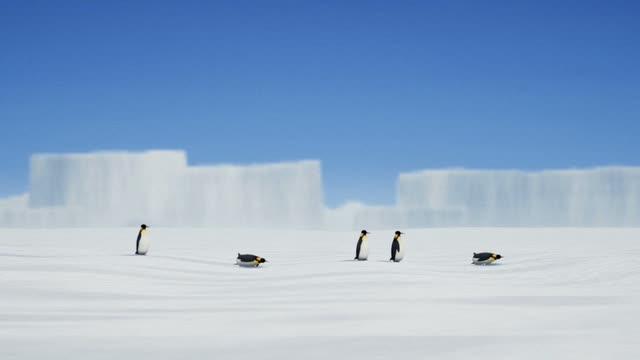
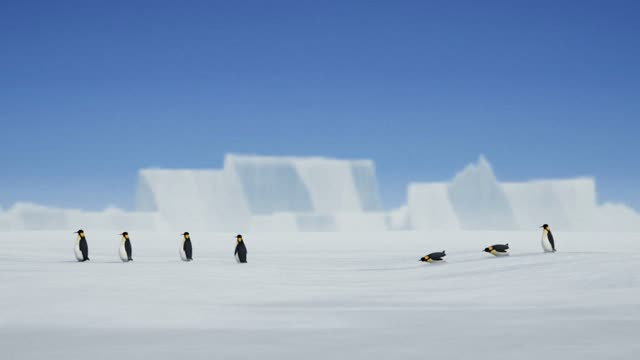
penguins のヒナの動きと顔つきを調整する

diff --git a/penguins.html b/penguins.html
@@ -207,8 +207,6 @@ const ADULT_SHAPE = {
   bellyRadius: 0.215,             // 腹ばいのときの回転の中心の高さ（腹が雪に少し沈む高さ。浮いて見えないように）
   neck: [0.02, 0.985, 0],
   shoulder: [-0.012, 0.75, 0.118],
-  wingLength: 1,                  // 翼の長さの倍率
-  wingOpen: 0,                    // 翼を体から離す角度の追加（ラジアン）
 };
 // ヒナは大人より丸っこい。この形で作ってから、全体を CHICK_SIZE 倍で描く
 const CHICK_SHAPE = {
@@ -232,17 +230,13 @@ const CHICK_SHAPE = {
   tailX: -0.24,
   head: [0.108, 0.122, 0.108],
   bill: [
-    [0, 0, 0.026, 0.02],
-    [0.05, 0.003, 0.016, 0.012],
-    [0.1, 0.012, 0.002, 0.002],
+    [0, 0, 0.036, 0.028],
+    [0.0525, 0.003, 0.022, 0.017],
+    [0.105, 0.013, 0.002, 0.002],
   ],
   billSmooth: 8,
-  billAt: [0.105, -0.012],
-  bellyRadius: 0.285,
+  billAt: [0.105, 0.012],
   neck: [0.012, 0.93, 0],
-  shoulder: [-0.012, 0.74, 0.16],
-  wingLength: 0.68,
-  wingOpen: 0.14,                 // 太い胴に翼が埋まらないように離す
 };
 
 // 景色。色は sRGB の文字列。光は [R, G, B]（線形の明るさ。1 を超えてよく、最後にトーンカーブで収める）
@@ -721,10 +715,10 @@ function paintChickHead(u, v) {
   const a = frontAngle(u);
   const noise = 0.85 + 0.25 * valueNoise(u * 40, v * 40, 40);
   // 黒い頭に白い顔
-  let col = mix3(BLACK, CHICK_FACE, blob((a - 62) / 62, (v - 0.42) / 0.26, 0.75));
+  let col = mix3(BLACK, CHICK_FACE, blob((a - 50) / 50, (v - 0.42) / 0.26, 0.75));
   // 喉は綿毛の色につなぐ
   col = mix3(col, DOWN_LIGHT, 1 - smoothstep(v, 0.02, 0.18));
-  col = mix3(col, BLACK, blob((a - 52) / 8, (v - 0.56) / 0.05, 0.5));
+  col = mix3(col, BLACK, blob((a - 52) / 12.8, (v - 0.56) / 0.08, 0.5));
   return col.map((c) => c * noise);
 }
 
@@ -743,6 +737,7 @@ function paintAdultFlipper(u, v) {
   // 背と同じ色で、付け根は肩になじむよう暗くする
   return mix3(mix3(SLATE, BLACK, 0.15 + 0.6 * smoothstep(v, 0.6, 1)), WHITE, front * 0.2);
 }
+// ヒナに翼は無いが、尾が翼と同じ場所の模様を使う
 const paintChickFlipper = (u, v) => mix3(DOWN, DOWN_LIGHT, valueNoise(u * 20, v * 20, 20)).map((c) => c * 0.85);
 
 const paintFoot = () => FOOT_COLOR;
@@ -1517,11 +1512,11 @@ function startSlide(b) {
   b.trailAt = b.p;
 }
 
-// 滑り出すペンギンを選ぶ。下り坂にいるほど選ばれやすい
+// 滑り出すペンギンを選ぶ。下り坂にいるほど選ばれやすい。ヒナは滑らない
 function chooseSlider() {
   let total = 0;
   const weights = birds.map((b) => {
-    if (b.state !== 'walk' || b.v < walkSpeed * 0.5 || Math.abs(b.p) > halfWidth * 0.95) return 0;
+    if (b.kind === 1 || b.state !== 'walk' || b.v < walkSpeed * 0.5 || Math.abs(b.p) > halfWidth * 0.95) return 0;
     const w = 1 + SLIDE_DOWNHILL_BIAS * Math.max(0, -slopeAhead(b.p));
     total += w;
     return w;
@@ -1529,11 +1524,12 @@ function chooseSlider() {
   if (!total) return;
   let r = Math.random() * total;
   const index = weights.findIndex((w) => (r -= w) <= 0);
-  const b = birds[index < 0 ? birds.length - 1 : index];
+  if (!weights[index]) return;   // 丸め誤差で、選べないペンギンに当たったとき
+  const b = birds[index];
   startSlide(b);
   // 後ろのペンギンがつられることがある
   const behind = birds
-    .filter((o) => o !== b && o.state === 'walk' && Math.abs(o.z0 - b.z0) <= FILE_WIDTH && o.p < b.p && b.p - o.p < o.gap * 4)
+    .filter((o) => o !== b && o.kind !== 1 && o.state === 'walk' && Math.abs(o.z0 - b.z0) <= FILE_WIDTH && o.p < b.p && b.p - o.p < o.gap * 4)
     .sort((x, y) => y.p - x.p)
     .slice(0, FOLLOW_SLIDE_MAX);
   for (const o of behind) {
@@ -1807,7 +1803,7 @@ function setBodyPart(mesh, chickMesh, slot, b, matrix) {
 }
 
 // 体。一歩ごとに、足を着いた瞬間に沈み、足の真上に乗ると伸びる（真横からは左右の傾きより、この上下と前後の揺れが見える）
-function poseBody(b, i, shape, motion) {
+function poseBody(b, i, motion) {
   const w = b.prone;
   const swing = Math.sin(b.phase);
   const rock = -Math.cos(b.phase * 2) * WALK_ROCK * motion;   // 足を着いた瞬間に前へ、足の真上に乗ると後ろへ
@@ -1820,7 +1816,7 @@ function poseBody(b, i, shape, motion) {
   const pitch = lerp(-b.lean + rock, -Math.PI / 2 * 0.96 + Math.atan(slope) + settle * 0.05 * Math.sin(b.landed * 12), w);
   // 腹ばいになるときは体の中ほどを中心に前へ倒す
   mBody.copy(mRoot);
-  move(mBody, Math.sin(b.phase * 2) * WALK_SURGE * motion, lerp(BODY_PIVOT + bob, shape.bellyRadius + bounce, w), swing * WALK_SHIFT * motion);
+  move(mBody, Math.sin(b.phase * 2) * WALK_SURGE * motion, lerp(BODY_PIVOT + bob, ADULT_SHAPE.bellyRadius + bounce, w), swing * WALK_SHIFT * motion);
   rotZ(mBody, pitch);
   rotX(mBody, roll);
   rotY(mBody, swing * b.twist * motion);
@@ -1837,22 +1833,22 @@ function poseHead(b, i, shape) {
   setBodyPart(headMesh, chickHeadMesh, i, b, mPart);
 }
 
-// 翼。歩くときは体から少し離して遅れて揺らす。腹ばいで蹴るときは広げて漕ぎ、滑るときは畳む。起き上がるときは雪を押す
-function poseWings(b, i, shape, amt, motion) {
+// 翼。歩くときは体から少し離して遅れて揺らす。腹ばいで蹴るときは広げて漕ぎ、滑るときは畳む。起き上がるときは雪を押す。ヒナには描かない
+function poseWings(b, i, amt, motion) {
   const w = b.prone;
+  const shoulder = ADULT_SHAPE.shoulder;
   for (const side of SIDES) {
     const lag = Math.sin(b.phase - 0.8) * side;
     const stroke = Math.sin(kickPhase(b, side));
     const proneOpen = lerp(lerp(0.34, 0.62, b.paddle), 0.8, b.push);
     const proneFore = lerp(lerp(0.12, 0.45 + 0.5 * stroke, b.paddle), 0.95, b.push);
-    const open = lerp(0.36 + b.wingOpen + 0.12 * amt, proneOpen, w) + shape.wingOpen;
+    const open = lerp(0.36 + b.wingOpen + 0.12 * amt, proneOpen, w);
     const fore = lerp(WALK_WING_SWING * lag * motion, proneFore, w);
     mPart.copy(mBody);
-    move(mPart, shape.shoulder[0], shape.shoulder[1], side * shape.shoulder[2]);
+    move(mPart, shoulder[0], shoulder[1], side * shoulder[2]);
     rotZ(mPart, fore);
     rotX(mPart, -side * open);
-    mPart.scale(vScale.set(1, shape.wingLength, 1));
-    flipperMesh.setMatrixAt(pairSlot(i, side), mPart);
+    flipperMesh.setMatrixAt(pairSlot(i, side), b.kind === 1 ? mHidden : mPart);
     setPartAttributes(flipperMesh, pairSlot(i, side), b);
   }
 }
@@ -1896,9 +1892,9 @@ function writeBirds() {
     rotY(mRoot, (dir > 0 ? 0 : Math.PI) - dir * b.heading);
     mRoot.scale(vScale.setScalar(b.size));
 
-    poseBody(b, i, shape, motion);
+    poseBody(b, i, motion);
     poseHead(b, i, shape);
-    poseWings(b, i, shape, amt, motion);
+    poseWings(b, i, amt, motion);
     poseFeet(b, i);
     poseShadow(b, i);
   }

diff --git a/docs/specs/penguins.md b/docs/specs/penguins.md
@@ -83,13 +83,13 @@
 
 ときどき（60〜600 秒おき、平均 180 秒ほどに 1 回）、灰色の綿毛のヒナが 1 羽、列の最後尾に加わる。
 
-- 大きさは大人の 7 割で、シルエットは丸っこい。胴はふっくらして首が短く、頭は丸く、くちばしと翼は短い。全身が灰色の綿毛で、顔は白く、頭は黒い。黄色の模様は無い。
-- 歩き方も腹滑りも大人と同じで、列の 1 羽として画面の外へ抜ける。歩幅は体に合わせて狭いので、足の運びは大人より速い。
+- 大きさは大人の 7 割で、シルエットは丸っこい。胴はふっくらして首が短く、頭は丸く、くちばしは短い。翼は描かない（綿毛の胴に紛れて目立たないため）。全身が灰色の綿毛で、顔は白く、頭は黒い。黄色の模様は無い。
+- 歩き方は大人と同じで、腹滑りはしない（前のペンギンにもつられない）。列の 1 羽として画面の外へ抜ける。歩幅は体に合わせて狭いので、足の運びは大人より速い。
 - **C** キーですぐに呼び出せる（操作ガイドには表示しない）。ヒナがいる間は何もしない。
 
 ## 描き方
 
-- ペンギンは部品（胴と尾・頭とくちばし・翼 2 枚・足 2 本）ごとに `InstancedMesh` で描き、毎フレーム CPU で各部品の行列を求める。骨格のアニメーションやモデルファイルは使わない。形は断面を重ねて作り、模様は 1 枚のテクスチャ（起動時に CPU で塗る）に部品ごとの置き場所を決めて描く。ヒナは胴と頭だけ別の形を持ち（一度に 1 羽なので、描く回数は 2 回増えるだけ）、模様は貼る場所を変える。翼と足は大人と同じ形を使い、翼は短く縮めて描く。
+- ペンギンは部品（胴と尾・頭とくちばし・翼 2 枚・足 2 本）ごとに `InstancedMesh` で描き、毎フレーム CPU で各部品の行列を求める。骨格のアニメーションやモデルファイルは使わない。形は断面を重ねて作り、模様は 1 枚のテクスチャ（起動時に CPU で塗る）に部品ごとの置き場所を決めて描く。ヒナは胴と頭だけ別の形を持ち（一度に 1 羽なので、描く回数は 2 回増えるだけ）、模様は貼る場所を変える。足は大人と同じ形を使う。翼の枠は描かないようにする。
 - 歩きと腹ばいは、体の向きと各部品の角度を補間してつなぐ。
 - 黒い羽が平らに見えないよう、ふちにわずかに空の色を足す。
 - 影の計算はせず、足もとにぼかした楕円を置く。影の向きは景色の太陽の位置から決め、長さは景色ごとに決める。`Midnight Sun` の影も、楕円を手前へ伸ばすだけで描く。足もとから先へ薄くして、楕円を置いたように見えないようにする。
